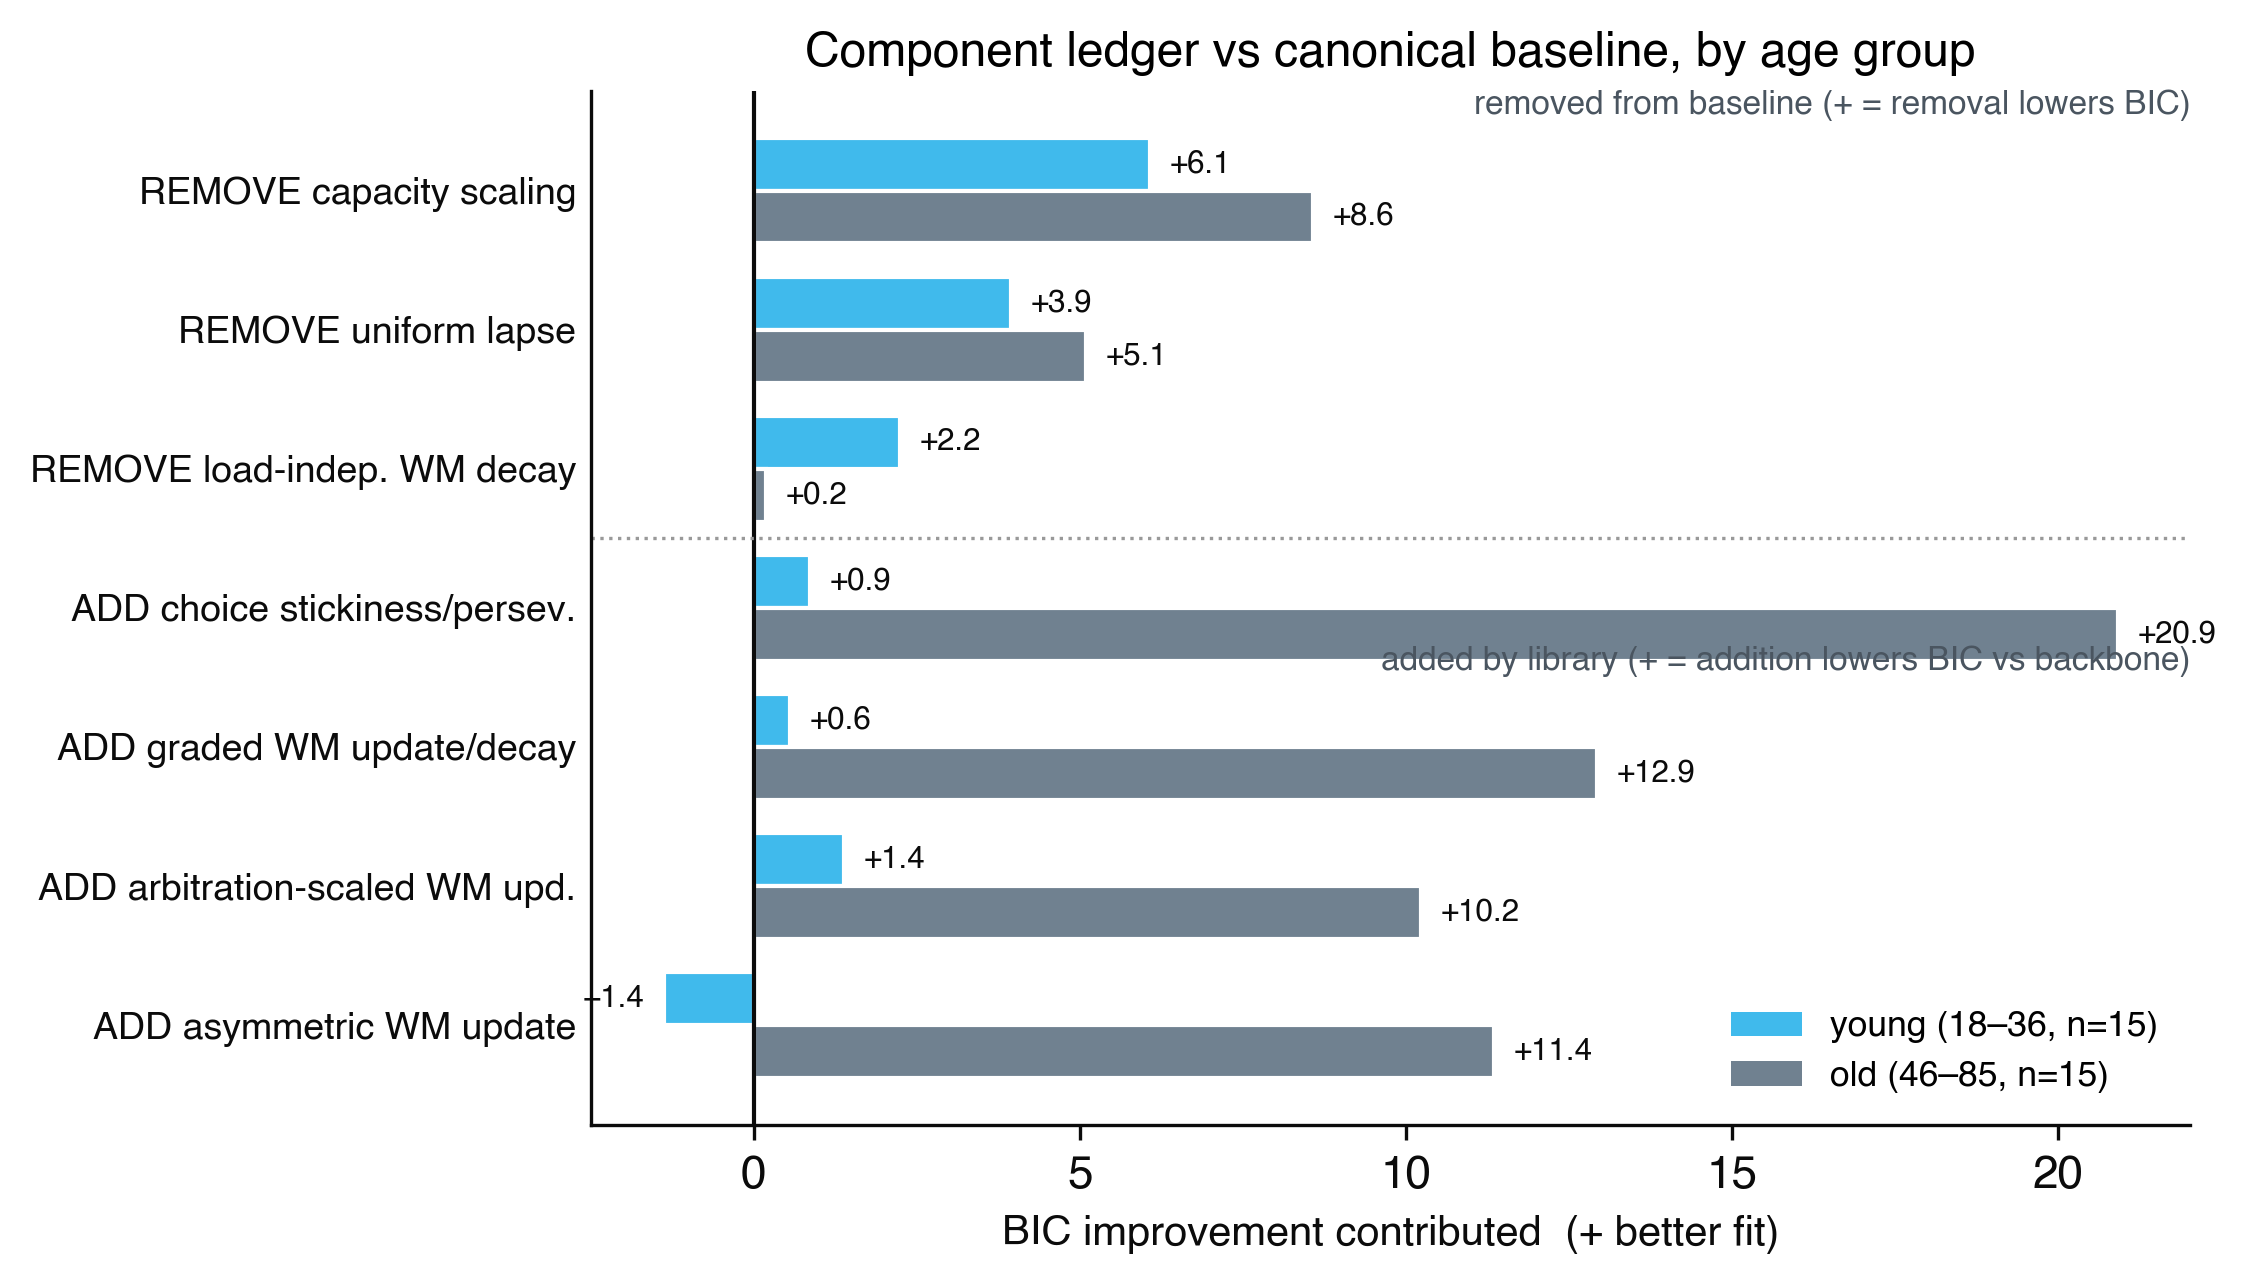
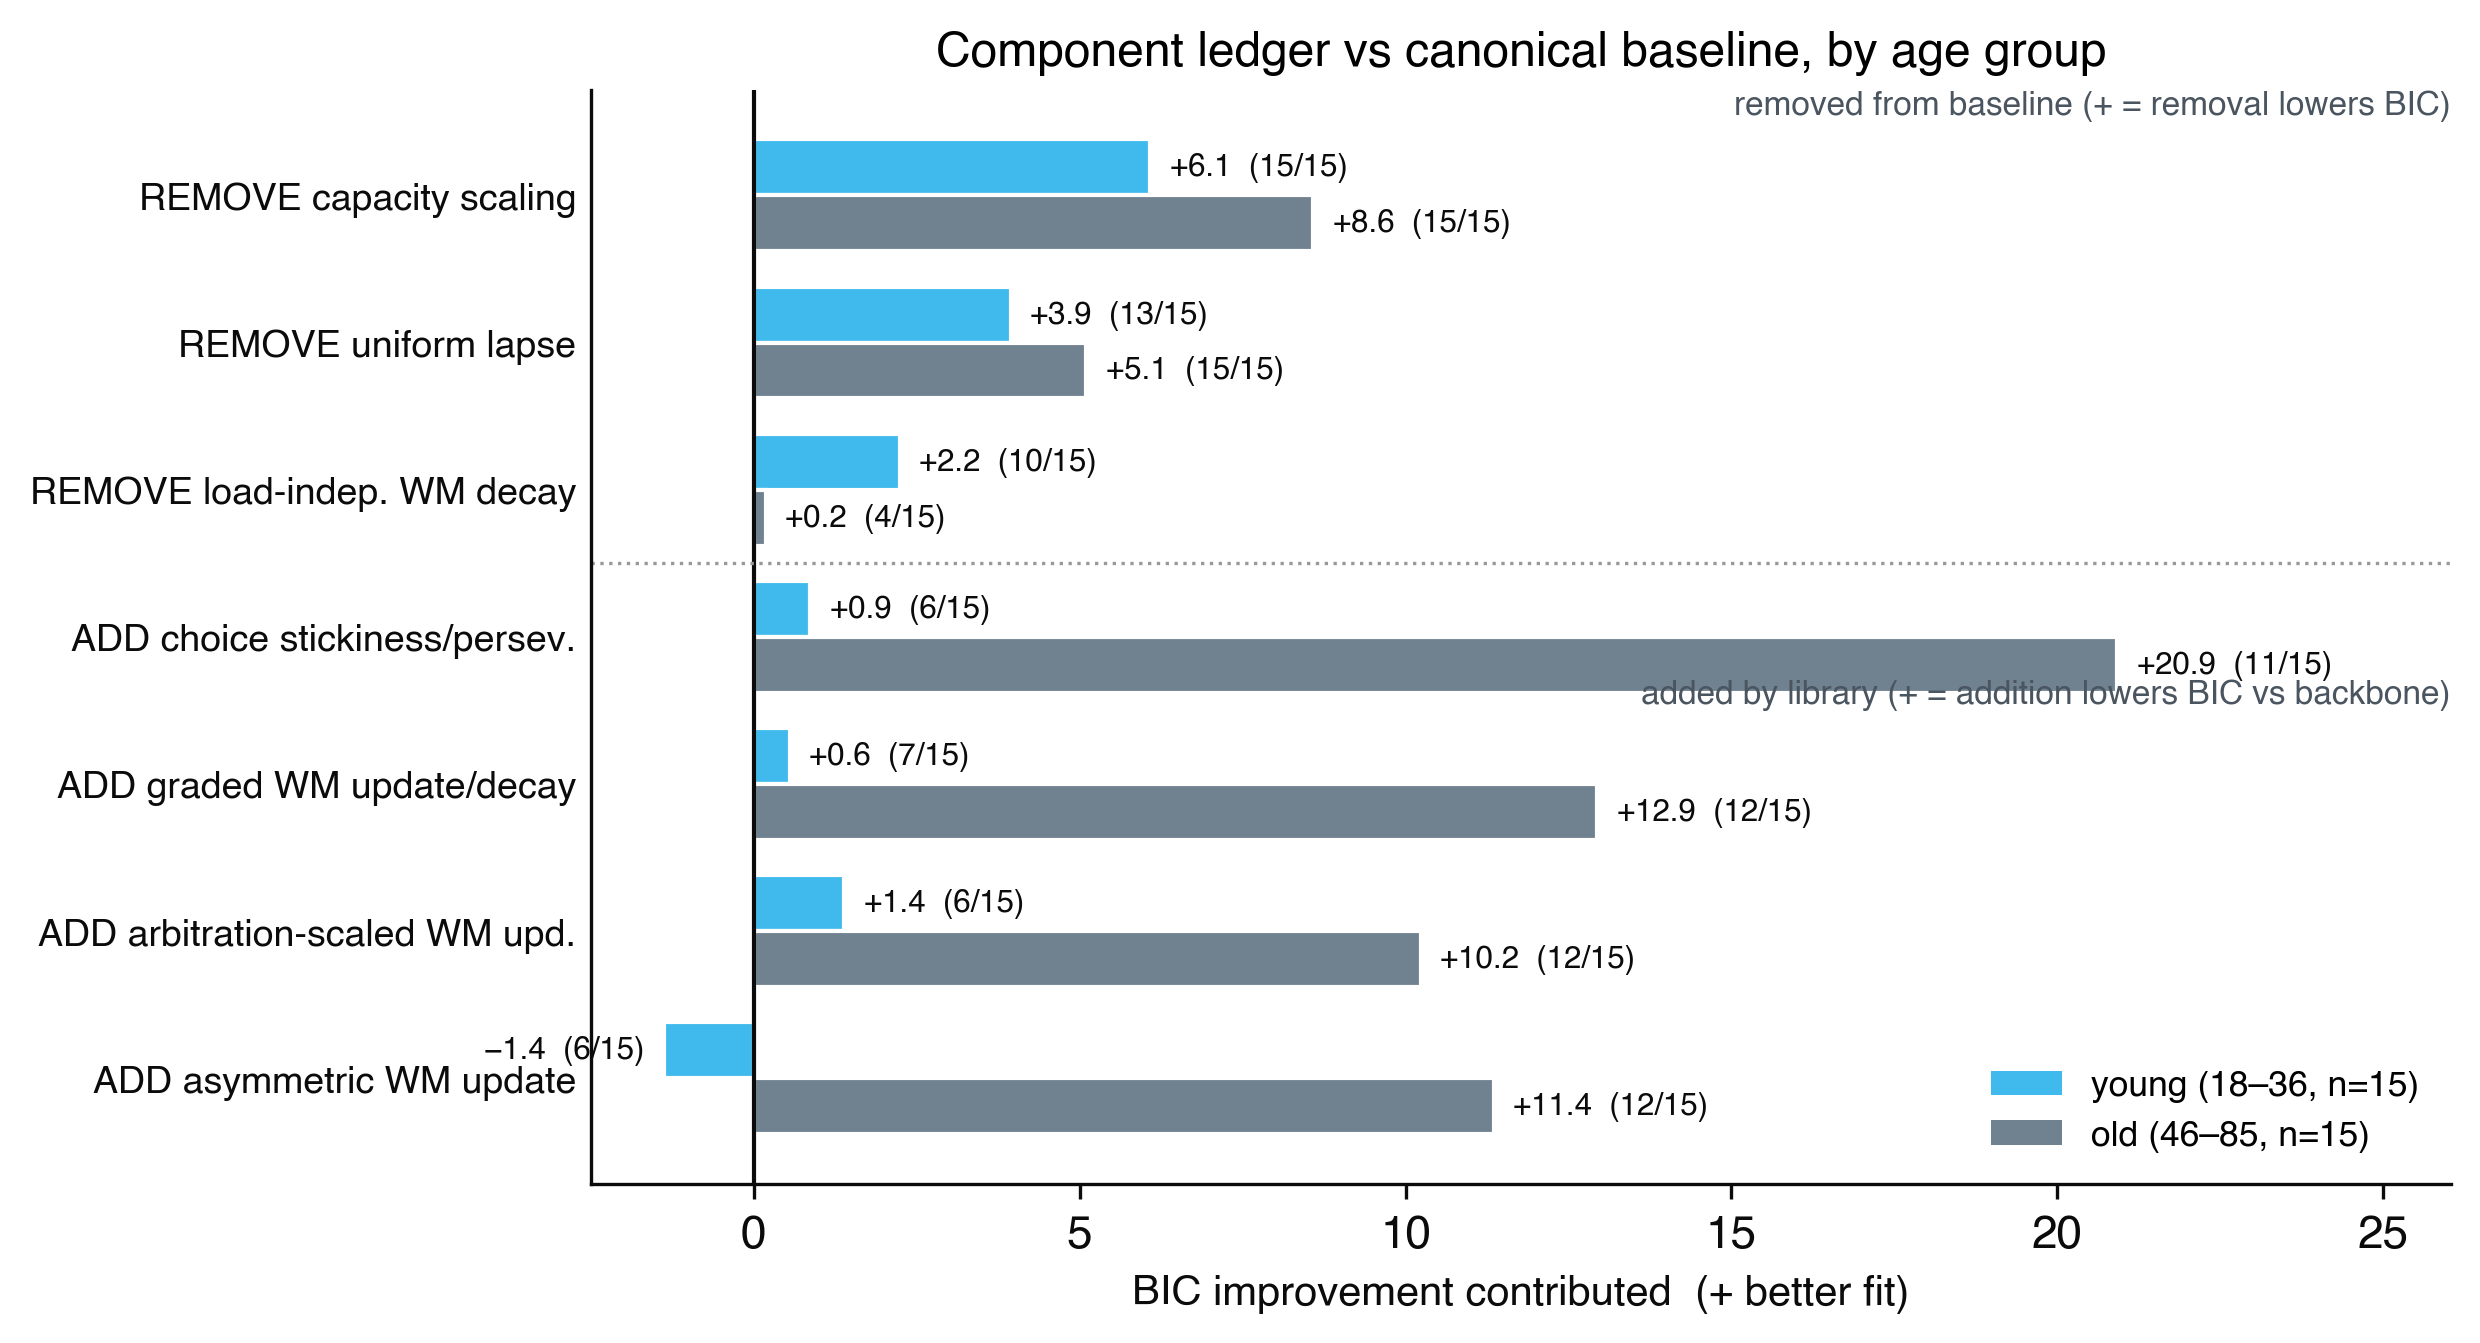
analysis: annotate component ledgers with frequency (x/N helped by >1 BIC)

diff --git a/analysis/rlwm/plot_component_ledger.py b/analysis/rlwm/plot_component_ledger.py
@@ -48,6 +48,9 @@ abl = json.load(open(LC / "baseline_ablation_bics.json"))
 def rem(name, grp):
     return float(np.mean([abl["full"][str(p)] - abl[name][str(p)] for p in grp]))
 
+def rem_n(name, grp):  # # of group helped by >1 BIC by REMOVING the component
+    return sum((abl["full"][str(p)] - abl[name][str(p)]) > 1 for p in grp)
+
 # ---- additions (single-module gain over backbone) ----
 gains = defaultdict(dict)
 for pdir in sorted(SEARCH.iterdir()):
@@ -62,31 +65,35 @@ for pdir in sorted(SEARCH.iterdir()):
 def add(m, grp):
     return float(np.mean([gains[m][p] for p in grp if p in gains[m]]))
 
-# ledger: (label, kind, young, old)
+def add_n(m, grp):  # # of group helped by >1 BIC by ADDING the module (over backbone)
+    return sum(gains[m].get(p, 0) > 1 for p in grp)
+
+# ledger: (label, kind, young, old, young_n, old_n) — n = of 15 helped by >1 BIC
 rows = [
-    ("REMOVE capacity scaling", "rm", rem("no_capacity", young), rem("no_capacity", old)),
-    ("REMOVE uniform lapse", "rm", rem("no_lapse", young), rem("no_lapse", old)),
-    ("REMOVE load-indep. WM decay", "rm", rem("no_decay", young), rem("no_decay", old)),
-    ("ADD choice stickiness/persev.", "add", add("action_stickiness", young), add("action_stickiness", old)),
-    ("ADD graded WM update/decay", "add", add("unified_wm_update_decay", young), add("unified_wm_update_decay", old)),
-    ("ADD arbitration-scaled WM upd.", "add", add("arbitration_scaled_wm_update", young), add("arbitration_scaled_wm_update", old)),
-    ("ADD asymmetric WM update", "add", add("wm_asymmetric_update_p1", young), add("wm_asymmetric_update_p1", old)),
+    ("REMOVE capacity scaling", "rm", rem("no_capacity", young), rem("no_capacity", old), rem_n("no_capacity", young), rem_n("no_capacity", old)),
+    ("REMOVE uniform lapse", "rm", rem("no_lapse", young), rem("no_lapse", old), rem_n("no_lapse", young), rem_n("no_lapse", old)),
+    ("REMOVE load-indep. WM decay", "rm", rem("no_decay", young), rem("no_decay", old), rem_n("no_decay", young), rem_n("no_decay", old)),
+    ("ADD choice stickiness/persev.", "add", add("action_stickiness", young), add("action_stickiness", old), add_n("action_stickiness", young), add_n("action_stickiness", old)),
+    ("ADD graded WM update/decay", "add", add("unified_wm_update_decay", young), add("unified_wm_update_decay", old), add_n("unified_wm_update_decay", young), add_n("unified_wm_update_decay", old)),
+    ("ADD arbitration-scaled WM upd.", "add", add("arbitration_scaled_wm_update", young), add("arbitration_scaled_wm_update", old), add_n("arbitration_scaled_wm_update", young), add_n("arbitration_scaled_wm_update", old)),
+    ("ADD asymmetric WM update", "add", add("wm_asymmetric_update_p1", young), add("wm_asymmetric_update_p1", old), add_n("wm_asymmetric_update_p1", young), add_n("wm_asymmetric_update_p1", old)),
 ]
 
 labels = [r[0] for r in rows]
 y = np.arange(len(rows))[::-1]
 h = 0.38
-fig, ax = plt.subplots(figsize=(7.6, 4.4))
-for yi, (_, kind, gy, go) in zip(y, rows):
+fig, ax = plt.subplots(figsize=(8.4, 4.6))
+for yi, (_, kind, gy, go, ny, no) in zip(y, rows):
     ax.barh(yi + h/2, gy, height=h, color=YOUNG_C,
             edgecolor="white", zorder=2)
     ax.barh(yi - h/2, go, height=h, color=OLD_C, edgecolor="white", zorder=2)
-    for val, off in [(gy, h/2), (go, -h/2)]:
+    for val, off, cnt in [(gy, h/2, ny), (go, -h/2, no)]:
         sgn = "+" if val >= 0 else "−"
         ax.text(val + (0.3 if val >= 0 else -0.3), yi + off,
-                "%s%.1f" % (sgn, abs(val)), va="center",
+                "%s%.1f  (%d/15)" % (sgn, abs(val), cnt), va="center",
                 ha="left" if val >= 0 else "right", fontsize=7.5, color=INK)
 ax.axvline(0, color=INK, lw=1.0)
+ax.set_xlim(ax.get_xlim()[0], ax.get_xlim()[1] + 4)  # room for (x/15) labels
 # divider between removals (top 3) and additions
 ax.axhline(y[3] + 0.5, color="0.6", lw=0.8, ls=":")
 ax.text(ax.get_xlim()[1], y[0] + 0.55, "removed from baseline (+ = removal lowers BIC)",
@@ -109,23 +116,24 @@ plt.close(fig)
 # ---- overall (all 30) single-series companion ----
 ALL = PIDS
 rows_all = [
-    ("REMOVE capacity scaling", "rm", rem("no_capacity", ALL)),
-    ("REMOVE uniform lapse", "rm", rem("no_lapse", ALL)),
-    ("REMOVE load-indep. WM decay", "rm", rem("no_decay", ALL)),
-    ("ADD choice stickiness/persev.", "add", add("action_stickiness", ALL)),
-    ("ADD graded WM update/decay", "add", add("unified_wm_update_decay", ALL)),
-    ("ADD arbitration-scaled WM upd.", "add", add("arbitration_scaled_wm_update", ALL)),
-    ("ADD asymmetric WM update", "add", add("wm_asymmetric_update_p1", ALL)),
+    ("REMOVE capacity scaling", "rm", rem("no_capacity", ALL), rem_n("no_capacity", ALL)),
+    ("REMOVE uniform lapse", "rm", rem("no_lapse", ALL), rem_n("no_lapse", ALL)),
+    ("REMOVE load-indep. WM decay", "rm", rem("no_decay", ALL), rem_n("no_decay", ALL)),
+    ("ADD choice stickiness/persev.", "add", add("action_stickiness", ALL), add_n("action_stickiness", ALL)),
+    ("ADD graded WM update/decay", "add", add("unified_wm_update_decay", ALL), add_n("unified_wm_update_decay", ALL)),
+    ("ADD arbitration-scaled WM upd.", "add", add("arbitration_scaled_wm_update", ALL), add_n("arbitration_scaled_wm_update", ALL)),
+    ("ADD asymmetric WM update", "add", add("wm_asymmetric_update_p1", ALL), add_n("wm_asymmetric_update_p1", ALL)),
 ]
 ya = np.arange(len(rows_all))[::-1]
-fig, ax = plt.subplots(figsize=(7.2, 4.2))
-for yi, (_, kind, g) in zip(ya, rows_all):
+fig, ax = plt.subplots(figsize=(8.0, 4.4))
+for yi, (_, kind, g, ncnt) in zip(ya, rows_all):
     ax.barh(yi, g, height=0.6, color="#2b6cb8" if kind == "add" else "#1b9e91",
             edgecolor="white", zorder=2)
     sgn = "+" if g >= 0 else "−"
-    ax.text(g + (0.3 if g >= 0 else -0.3), yi, "%s%.1f" % (sgn, abs(g)),
+    ax.text(g + (0.3 if g >= 0 else -0.3), yi, "%s%.1f  (%d/30)" % (sgn, abs(g), ncnt),
             va="center", ha="left" if g >= 0 else "right", fontsize=8.5, color=INK)
 ax.axvline(0, color=INK, lw=1.0)
+ax.set_xlim(ax.get_xlim()[0], ax.get_xlim()[1] + 3)  # room for (x/30) labels
 ax.axhline(ya[3] + 0.5, color="0.6", lw=0.8, ls=":")
 ax.set_yticks(ya)
 ax.set_yticklabels([r[0] for r in rows_all], fontsize=9)
@@ -140,15 +148,14 @@ fig.savefig(FIG_DIR / "library_component_ledger_overall.png")
 fig.savefig(FIG_DIR / "library_component_ledger_overall.pdf")
 plt.close(fig)
 print("overall (all 30):")
-for lbl, kind, g in rows_all:
-    print("  %-30s %+.1f" % (lbl, g))
+for lbl, kind, g, ncnt in rows_all:
+    print("  %-30s %+.1f (%d/30)" % (lbl, g, ncnt))
 
-print("removals (full-ablation, +=removal helps):")
-for lbl, kind, gy, go in rows:
-    if kind == "rm":
-        print("  %-30s young %+.1f  old %+.1f" % (lbl, gy, go))
-print("additions (gain over backbone):")
-for lbl, kind, gy, go in rows:
-    if kind == "add":
-        print("  %-30s young %+.1f  old %+.1f" % (lbl, gy, go))
+for kind_lbl, kk in [("removals (full-ablation, +=removal helps)", "rm"),
+                     ("additions (gain over backbone)", "add")]:
+    print(kind_lbl + ":")
+    for lbl, kind, gy, go, ny, no in rows:
+        if kind == kk:
+            print("  %-30s young %+.1f (%d/15)  old %+.1f (%d/15)"
+                  % (lbl, gy, ny, go, no))
 print("saved library_component_ledger")
